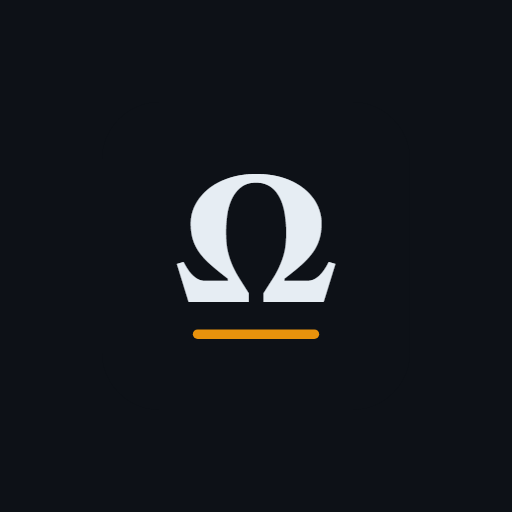
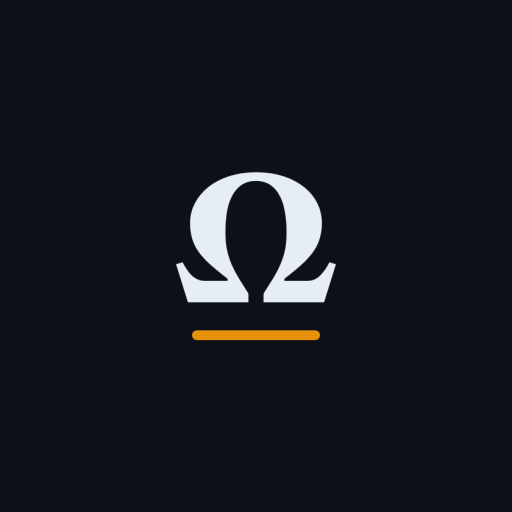
miettes : la maskable dérive enfin de la marque, le doublon mort d'onglet() disparaît — et le piège __pycache__ est tari à la source (#669)
* miettes : la maskable dérive enfin de la marque, et le doublon mort d'onglet() disparaît

① icon-maskable-512.png était le SEUL raster du site à ne pas dériver de icon-512.png — il
survivait au rendu headless d'origine (même famille que l'aplat noir d'icon-192, #658). Android
RECADRE une icône maskable (cercle, squircle, goutte) : le glyphe doit tenir dans la « zone sûre »,
le cercle central de 80 % du côté. On ne peut donc pas la produire comme les autres sorties — il
faut RÉDUIRE la marque puis la recentrer sur un fond plein. Échelle 0,61, reproduite depuis la
mesure de l'icône d'origine (glyphe 4,0 % contre 10,9 % pour icon-512), fond = couleur dominante
de la source (mesurée, jamais codée en dur).

VÉRIFIÉ EN DÉCODANT LES PIXELS : glyphe 4,0 % (identique à l'ancienne), 500 couleurs contre 165
(le rééchantillonnage par aire rend plus de demi-teintes), et surtout ZÉRO pixel de glyphe hors
du cercle de 80 % — la contrainte maskable est respectée, mesurée et non supposée.
La garde de fraîcheur la couvre désormais (3 PNG au lieu de 2) et a été VUE ROUGE sur une
maskable périmée avant d'être crue.

② extension/cdp_chrome.js : onglet() était déclaré DEUX FOIS, corps byte-identiques (vérifié) ;
la seconde déclaration écrase la première au hoisting, donc la première était morte. Retirée.

* et on tarit la source : build_site_icons n'écrit plus de bytecode dans extension/

La garde posée en #666 a fait son travail dès sa première rencontre réelle : dev.sh est tombé sur
[…]

diff --git a/extension/cdp_chrome.js b/extension/cdp_chrome.js
@@ -80,17 +80,6 @@ async function onglet(port, url) {
   throw new Error('le port de débogage ne répond pas');
 }
 
-async function onglet(port, url) {
-  for (let i = 0; i < 150; i++) {
-    try {
-      const r = await fetch('http://127.0.0.1:' + port + '/json/new?' + encodeURIComponent(url), { method: 'PUT' });
-      if (r.ok) return (await r.json()).webSocketDebuggerUrl;
-    } catch (e) { /* pas encore prêt */ }
-    await attendre(200);
-  }
-  throw new Error('le port de débogage ne répond pas');
-}
-
 /* ⚠ CHROME REFUSE UN DOSSIER D'EXTENSION CONTENANT UN NOM COMMENÇANT PAR « _ » (réservé système).
    Le piège vécu le 05/09/2026 : lancer un script Python depuis extension/ y laisse un `__pycache__`
    (gitignoré, donc invisible au diff) et `Extensions.loadUnpacked` échoue. Le coût réel n'est pas

diff --git a/build_site_icons.py b/build_site_icons.py
@@ -21,6 +21,13 @@ quels ; l'EFFET est gardé pour tous par `dictee/icones_probe.py`.
 """
 import importlib.util, os, struct, sys, zlib
 
+# ⚠ NE PAS POLLUER extension/ : importer extension/build_icons.py y écrit un `__pycache__`,
+#    et Chrome REFUSE alors de charger le dossier (nom réservé en « _ »). Vécu le 05/09/2026 :
+#    les deux bancs navigateur de dev.sh tombaient après un simple `build_site_icons.py`.
+#    La garde `verifierDossierExtension` (extension/cdp_chrome.js) le DÉTECTE ; ici on TARIT
+#    la source. Positionné AVANT l'import — sinon le fichier est déjà écrit.
+sys.dont_write_bytecode = True
+
 HERE = os.path.dirname(os.path.abspath(__file__))
 SRC = os.path.join(HERE, 'icon-512.png')
 
@@ -29,6 +36,13 @@ _ext = importlib.util.module_from_spec(_spec)
 _spec.loader.exec_module(_ext)
 
 SORTIES = (('apple-touch-icon.png', 180), ('icon-192.png', 192))
+
+# ⭐ MASKABLE (05/09/2026) : Android RECADRE l'icône (cercle, squircle, goutte…) — le glyphe doit tenir
+# dans la « zone sûre », le cercle central de 80 % du côté. On ne peut donc pas réutiliser SORTIES :
+# il faut RÉDUIRE la marque puis la recentrer sur un fond plein. Le facteur reproduit celui de l'icône
+# d'origine (glyphe mesuré 4,0 % de la surface contre 10,9 % pour icon-512 ⇒ échelle linéaire ≈ 0,61).
+# Sans cette entrée, icon-maskable-512.png restait le seul raster du site à ne PAS dériver de la marque.
+MASKABLE = ('icon-maskable-512.png', 512, 0.61)
 
 
 def encode_png_rgb(n, rgb):
@@ -55,6 +69,23 @@ def render():
         if bpp == 4:                                   # source RGBA : on jette l'alpha (fond perdu)
             small = bytes(b for i, b in enumerate(small) if i % 4 != 3)
         out[nom] = encode_png_rgb(n, small)
+
+    # MASKABLE : marque réduite puis RECENTRÉE sur un fond plein (la couleur dominante de la source,
+    # c'est-à-dire le fond de la marque — mesurée, jamais codée en dur).
+    nom, n, ech = MASKABLE
+    interne = max(1, int(round(n * ech)))
+    petit = _ext.resize_area(w, h, bpp, px, interne)
+    if bpp == 4:
+        petit = bytes(b for i, b in enumerate(petit) if i % 4 != 3)
+    from collections import Counter
+    src3 = px if bpp == 3 else bytes(b for i, b in enumerate(px) if i % 4 != 3)
+    fond = Counter(tuple(src3[i:i + 3]) for i in range(0, len(src3), 3)).most_common(1)[0][0]
+    marge = (n - interne) // 2
+    toile = bytearray(bytes(fond) * (n * n))
+    for y in range(interne):
+        deb = ((y + marge) * n + marge) * 3
+        toile[deb:deb + interne * 3] = petit[y * interne * 3:(y + 1) * interne * 3]
+    out[nom] = encode_png_rgb(n, bytes(toile))
     return out
 
 
